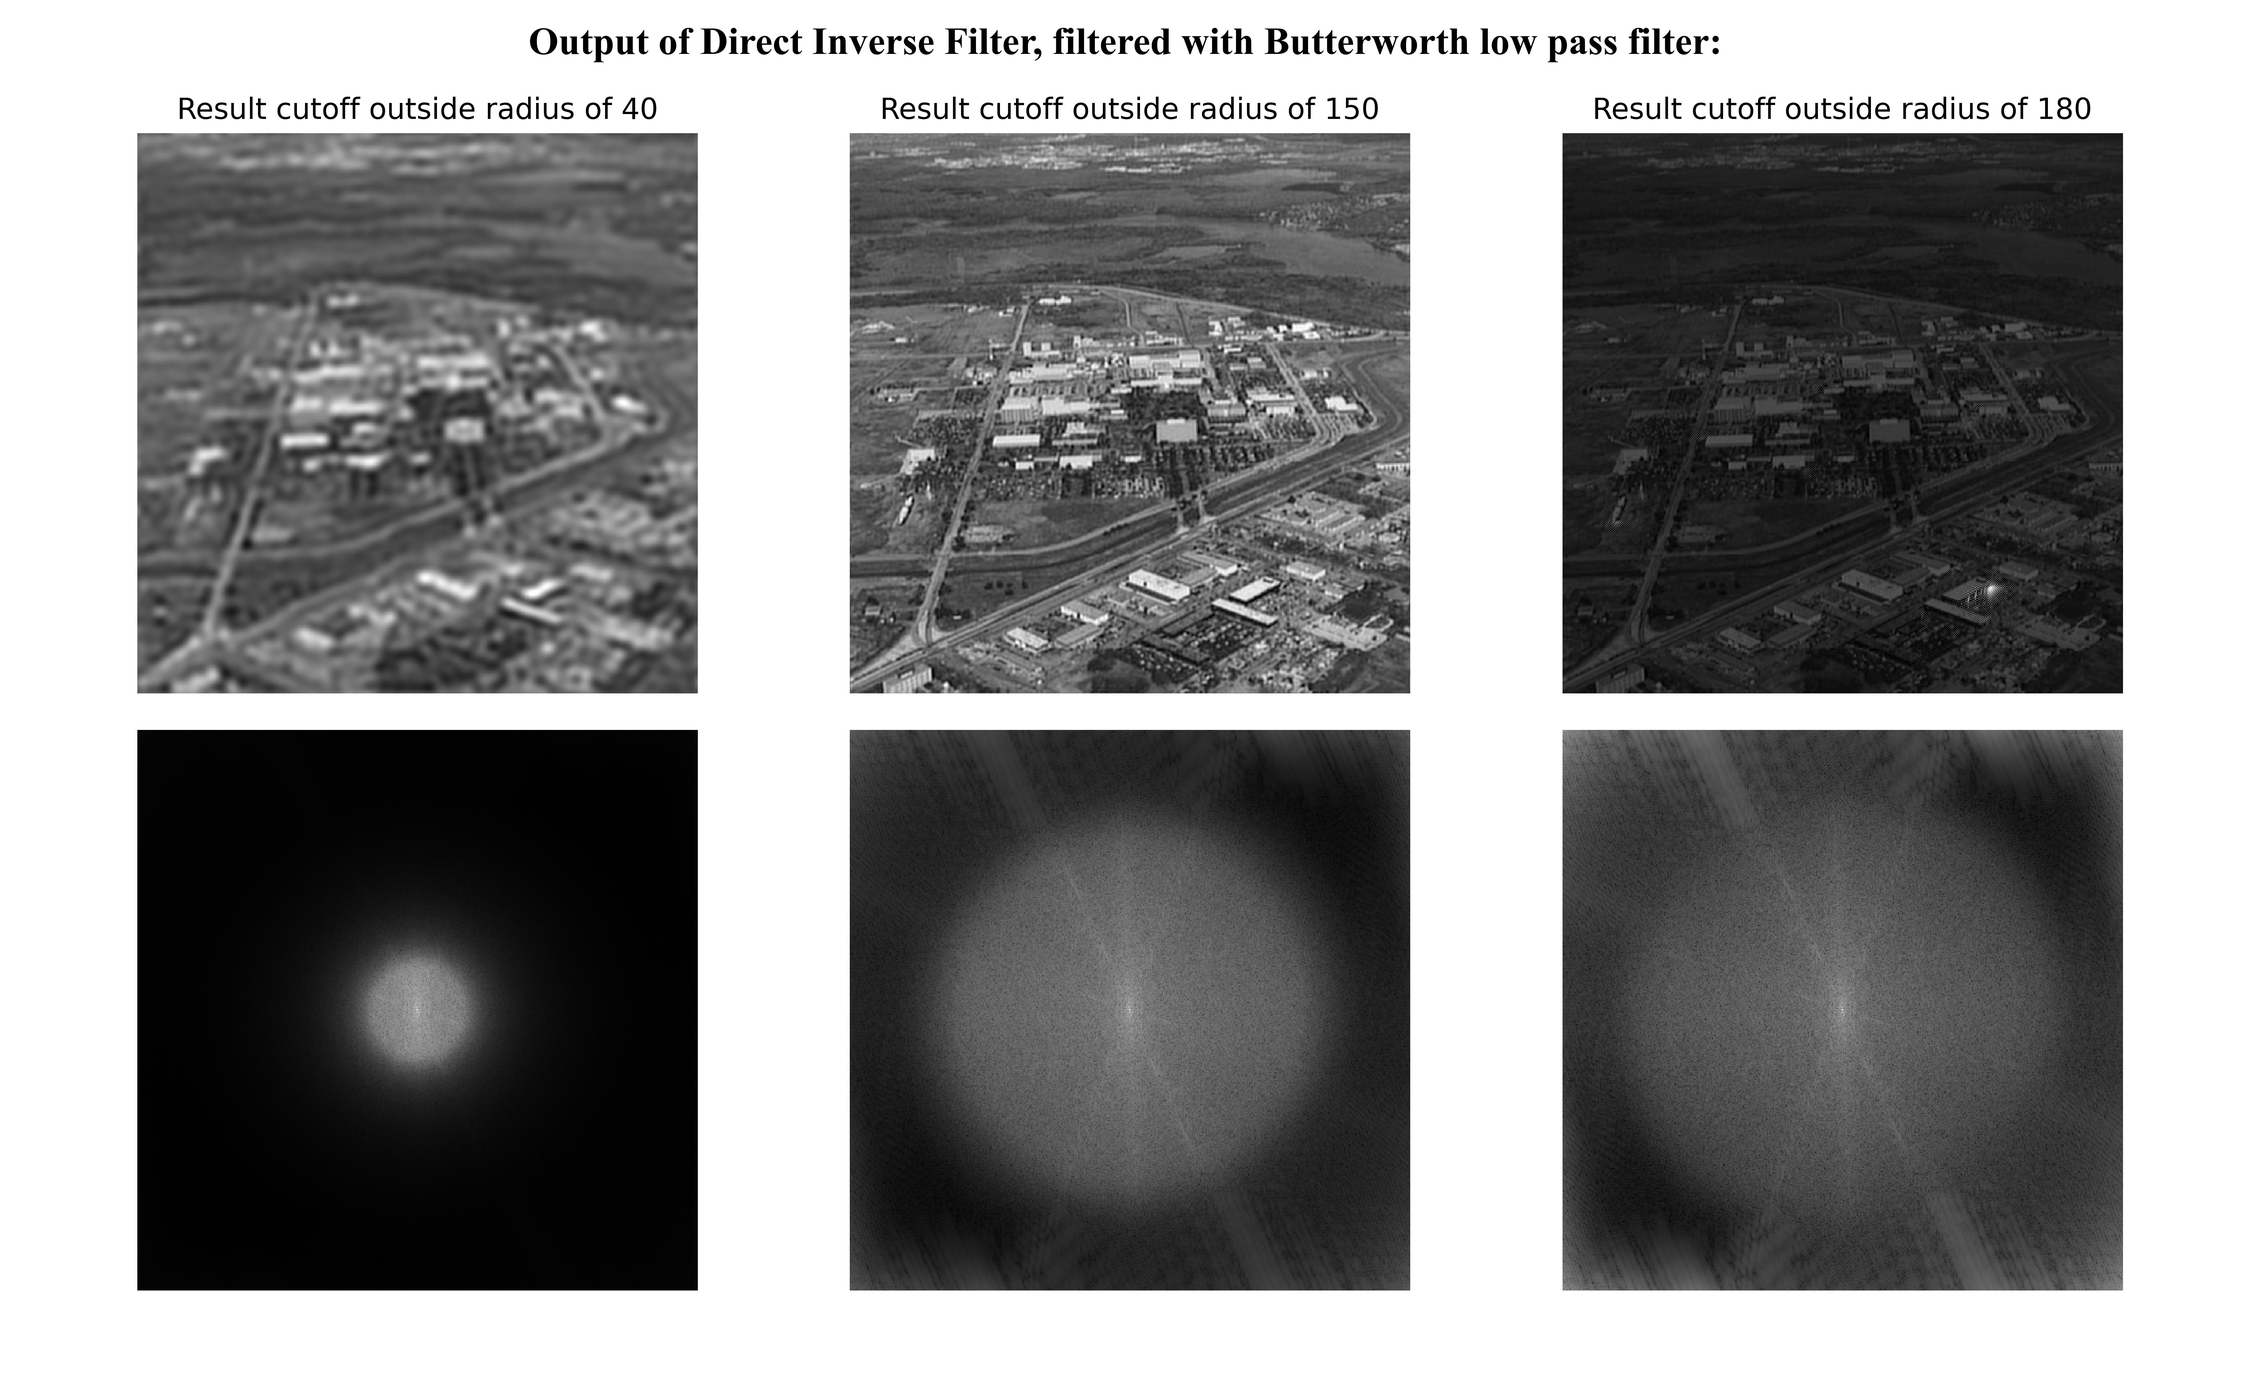
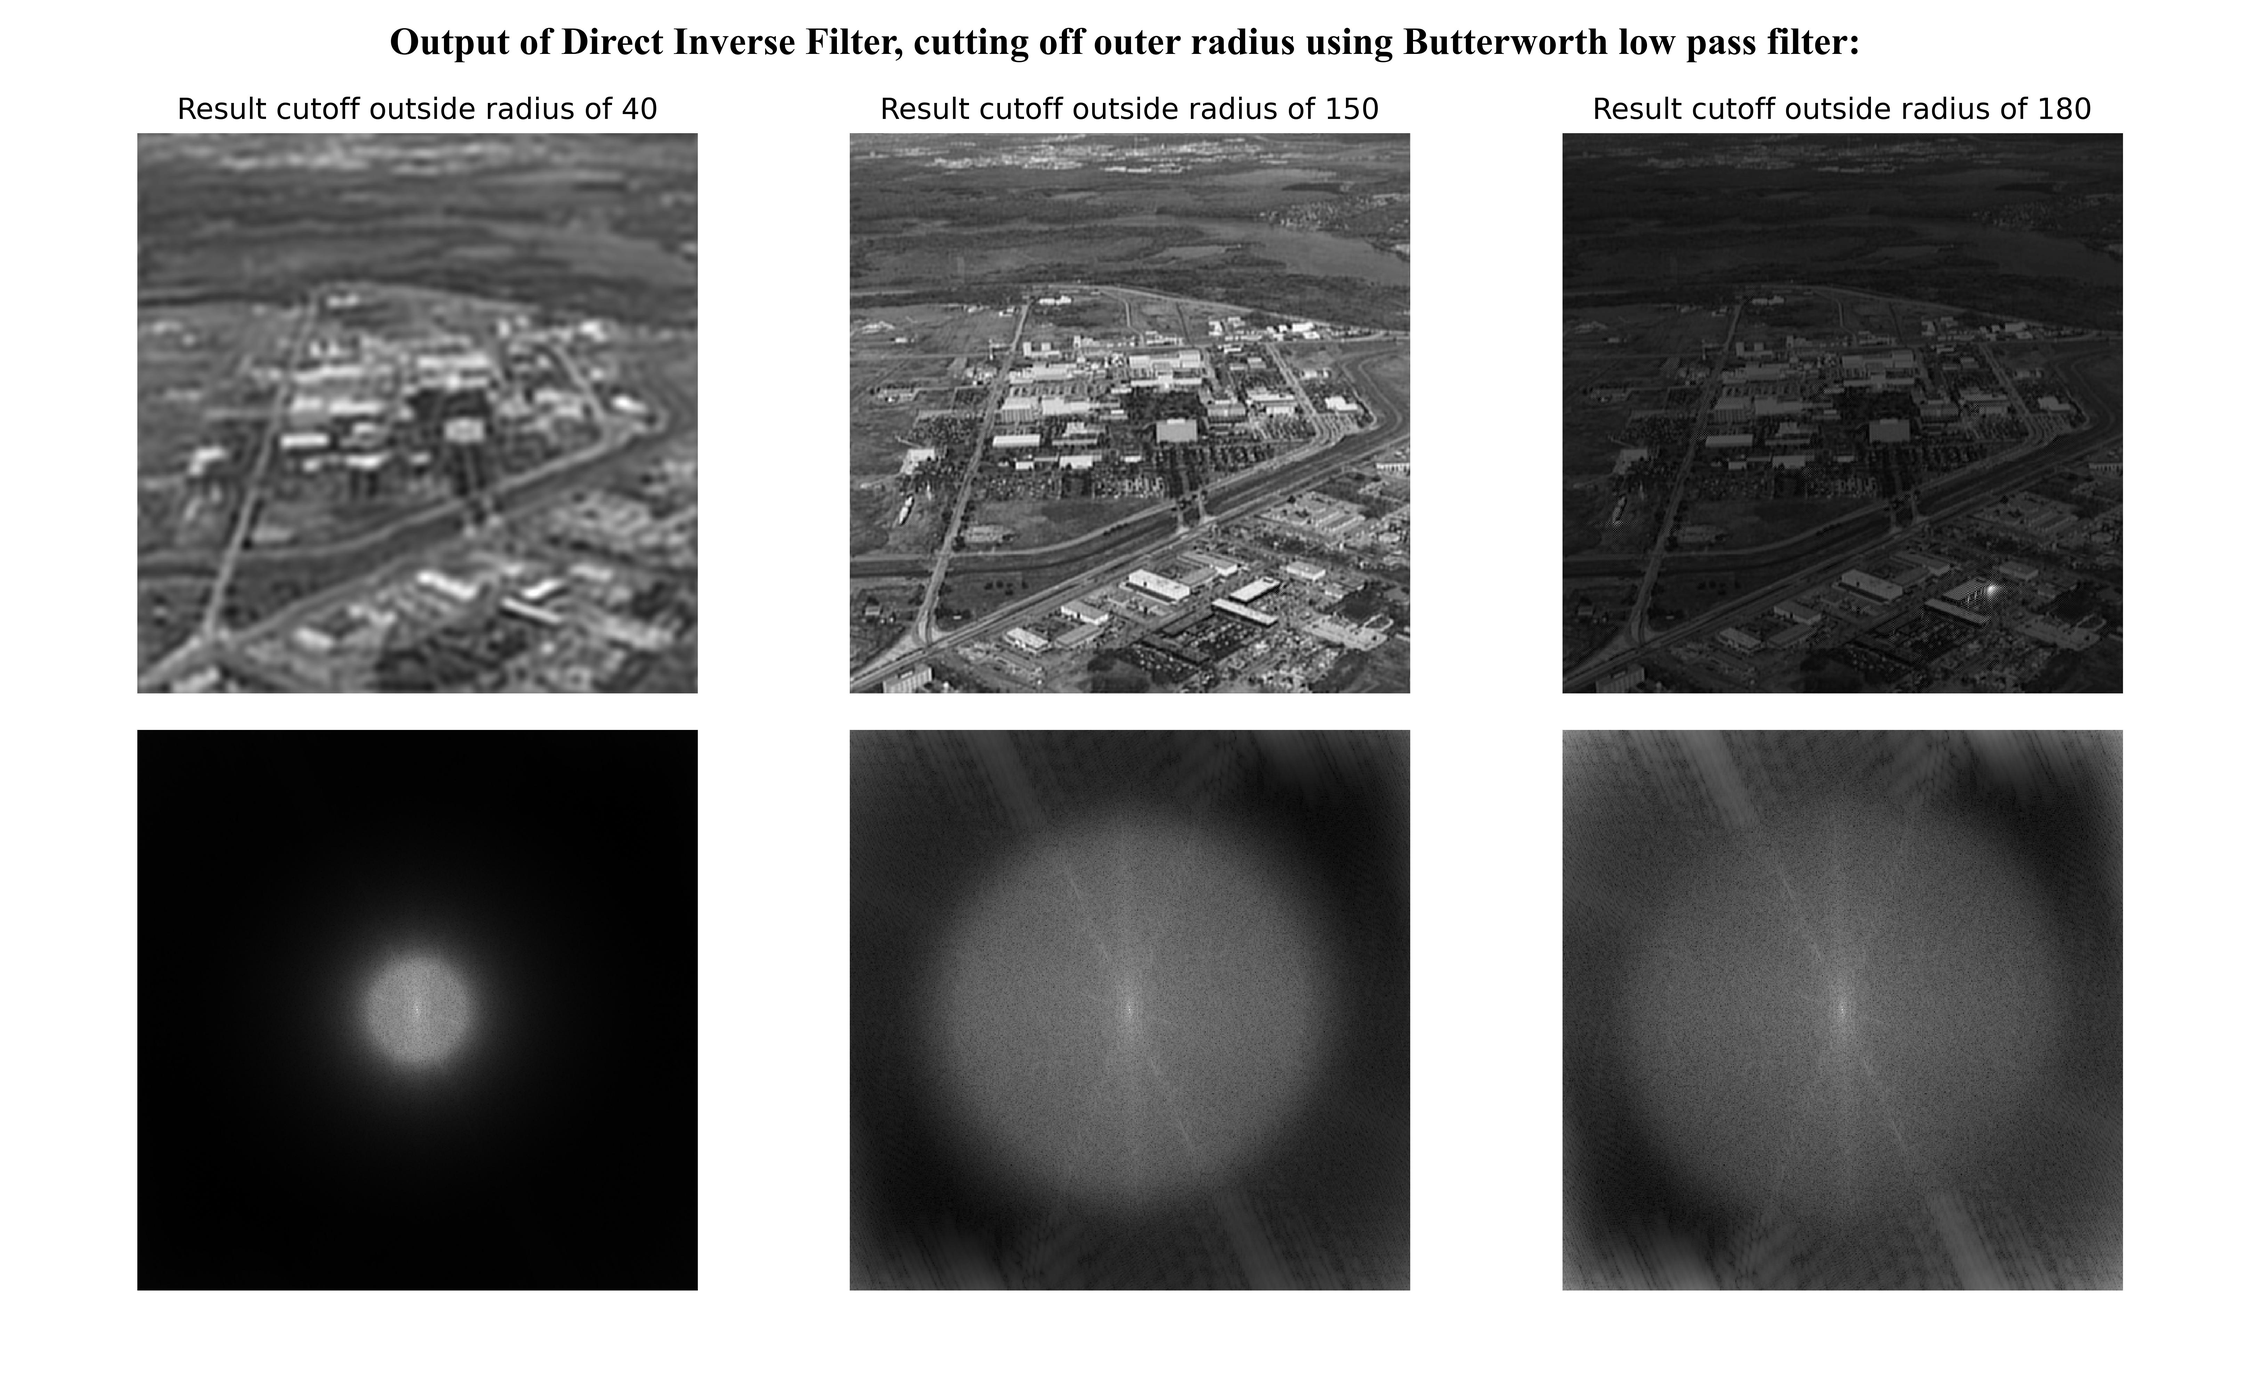
Added weiner filter in Filters class, and improved expt C10, and README.md

Changed region(s): [[0.1874, 0.0, 0.812, 0.0625]]

diff --git a/C_expt10.py b/C_expt10.py
@@ -1,13 +1,19 @@
 '''
 C_expt No. 10: 
 
-Title: Direct Inverse Filtering
+Title: Direct Inverse and Weiner Filtering   
 
 Aim: To write a program using Python to perform direct inverse filtering on an image corrupted by Atmospheric Turbulence Degradation with k=0.0025 (severe turbulence), and passing it through butterworth filter of order 10 and radii:
 i)   40
 ii)  150
 iii) 180
-to enhance recovery.
+to enhance recovery. And compare results with Weiner filtering on the same corrupted image.
+with different values of K:
+{K=Power Spectrum of Noise / Power Spectrum of Undegraded Image}
+i)   1
+ii)  0.5
+iii) 10^-4
+iv)  10^-9
 '''
 
 # important imports:
@@ -25,28 +31,49 @@ flt=Filters()
 img1=plt.imread('CH05\Fig0525(a)(aerial_view_no_turb).tif')
 img1_f=fd.dftshift2(fd.dft2(img1))
 
-
-# atmospheric turbulence degradation:
+# Degrading the original image:
+### atmospheric turbulence degradation:
 H_st=dm.atm_tur(img1.shape,0.0025)    # Severe Turbulence
 
-# degraded images in frequency domain:
+### degraded image in frequency domain:
 img_f_H_st=img1_f*H_st
 
-# degraded images in spatial domain:
+### degraded image in spatial domain:
 img_s_H_st=fd.idft2(fd.dftshift2(img_f_H_st))
 
-# Inverse filtering and bounding the output using butterworth filter of order 10, and different radii in frequency domain: 
-img_f_invf=fd.dftshift2(fd.dft2(img_s_H_st))/H_st
+
+# Recovery from degraded image:
+### degraded image in frequency domain:
+img_f_deg=fd.dftshift2(fd.dft2(img_s_H_st))
+
+### Inverse filtering and bounding the output using butterworth filter of order 10, and different radii in frequency domain: 
+img_f_invf=img_f_deg/H_st
 ord=10
 img_f_invf_b_40=(img_f_invf)*flt.bw_lp_flt(img_f_invf.shape,40,ord)
 img_f_invf_b_150=(img_f_invf)*flt.bw_lp_flt(img_f_invf.shape,150,ord)
 img_f_invf_b_180=(img_f_invf)*flt.bw_lp_flt(img_f_invf.shape,180,ord)
 
-# Inverse filtering and bounding the output using butterworth filter of order 10, and different radii in spatial domain: 
+### Inverse filtering and bounding the output using butterworth filter of order 10, and different radii in spatial domain: 
 img_s_invf=fd.idft2(fd.dftshift2(img_f_invf))
 img_s_invf_b_40=fd.idft2(fd.dftshift2(img_f_invf_b_40))
 img_s_invf_b_150=fd.idft2(fd.dftshift2(img_f_invf_b_150))
 img_s_invf_b_180=fd.idft2(fd.dftshift2(img_f_invf_b_180))
+
+### Weiner filtering in frequency domain:
+K1=1
+K2=0.5
+K3=1e-4
+K4=1e-9
+img_f_wf1=img_f_deg*flt.weiner_flt(H_st,K1)
+img_f_wf2=img_f_deg*flt.weiner_flt(H_st,K2)
+img_f_wf3=img_f_deg*flt.weiner_flt(H_st,K3)
+img_f_wf4=img_f_deg*flt.weiner_flt(H_st,K4)
+
+### Weiner filtering in spatial domain:
+img_s_wf1=fd.idft2(fd.dftshift2(img_f_wf1))
+img_s_wf2=fd.idft2(fd.dftshift2(img_f_wf2))
+img_s_wf3=fd.idft2(fd.dftshift2(img_f_wf3))
+img_s_wf4=fd.idft2(fd.dftshift2(img_f_wf4))
 
 
 # plots
@@ -85,7 +112,7 @@ fig1.set_size_inches(13,8)
 fig1.suptitle('Direct Inverse Filtering',font='Times New Roman',fontweight="bold",fontsize=16)
 fig1.savefig('input_output/C_expt10_1.jpg',dpi=500)
 
-# plots
+# # # # # #
 fig2=plt.figure(2)
 gs2=gs.GridSpec(2,3)
 
@@ -119,7 +146,79 @@ ax26.imshow(it.gamma(0.1,255)(np.abs(img_f_invf_b_180)),cmap='gray')
 
 fig2.tight_layout(pad=2.5)
 fig2.set_size_inches(13,8)
-fig2.suptitle('Output of Direct Inverse Filter, filtered with Butterworth low pass filter: ',font='Times New Roman',fontweight="bold",fontsize=16)
+fig2.suptitle('Output of Direct Inverse Filter, cutting off outer radius using Butterworth low pass filter: ',font='Times New Roman',fontweight="bold",fontsize=16)
 fig2.savefig('input_output/C_expt10_2.jpg',dpi=500)
+
+# # # # # 
+fig3=plt.figure(3)
+gs3=gs.GridSpec(2,3)
+
+ax31=plt.subplot(gs3[0,0])
+ax31.set_title('Original image')
+ax31.axis('off')
+ax31.imshow(img1,cmap='gray',vmax=255,vmin=0)
+
+ax32=plt.subplot(gs3[0,1])
+ax32.set_title(f'k=0.0025 (Severe Turbulence)')
+ax32.axis('off')
+ax32.imshow(img_s_H_st,cmap='gray',vmax=255,vmin=0)
+
+ax33=plt.subplot(gs3[0,2])
+ax33.set_title(f'Result of Weiner Filtering (K={K1})')
+ax33.axis('off')
+ax33.imshow(flt.isc(img_s_wf1,255),cmap='gray',vmax=255,vmin=0)
+
+ax34=plt.subplot(gs3[1,0])
+ax34.axis('off')
+ax34.imshow(it.gamma(0.1,255)(np.abs(img1_f)),cmap='gray')
+
+ax35=plt.subplot(gs3[1,1])
+ax35.axis('off')
+ax35.imshow(it.gamma(0.1,255)(np.abs(img_f_H_st)),cmap='gray')
+
+ax36=plt.subplot(gs3[1,2])
+ax36.axis('off')
+ax36.imshow(it.gamma(0.1,255)(np.abs(img_f_wf1)),cmap='gray')
+
+fig3.tight_layout(pad=2.5)
+fig3.set_size_inches(13,8)
+fig3.suptitle('Weiner Filtering for different values of K',font='Times New Roman',fontweight="bold",fontsize=16)
+fig3.savefig('input_output/C_expt10_3.jpg',dpi=500)
+
+# # # # # 
+fig4=plt.figure(4)
+gs4=gs.GridSpec(2,3)
+
+ax41=plt.subplot(gs4[0,0])
+ax41.set_title(f'Result of Weiner Filtering (K={K2})')
+ax41.axis('off')
+ax41.imshow(flt.isc(img_s_wf2,255),cmap='gray',vmax=255,vmin=0)
+
+ax42=plt.subplot(gs4[0,1])
+ax42.set_title(f'Result of Weiner Filtering (K={K3})')
+ax42.axis('off')
+ax42.imshow(flt.isc(img_s_wf3,255),cmap='gray',vmax=255,vmin=0)
+
+ax43=plt.subplot(gs4[0,2])
+ax43.set_title(f'Result of Weiner Filtering (K={K4})')
+ax43.axis('off')
+ax43.imshow(flt.isc(img_s_wf4,255),cmap='gray',vmax=255,vmin=0)
+
+ax44=plt.subplot(gs4[1,0])
+ax44.axis('off')
+ax44.imshow(it.gamma(0.1,255)(np.abs(img_f_wf2)),cmap='gray')
+
+ax45=plt.subplot(gs4[1,1])
+ax45.axis('off')
+ax45.imshow(it.gamma(0.1,255)(np.abs(img_f_wf3)),cmap='gray')
+
+ax46=plt.subplot(gs4[1,2])
+ax46.axis('off')
+ax46.imshow(it.gamma(0.1,255)(np.abs(img_f_wf4)),cmap='gray')
+
+fig4.tight_layout(pad=2.5)
+fig4.set_size_inches(13,8)
+fig4.suptitle('Weiner Filtering for different values of K',font='Times New Roman',fontweight="bold",fontsize=16)
+fig4.savefig('input_output/C_expt10_4.jpg',dpi=500)
 
 plt.show()

diff --git a/important_classes/filters.py b/important_classes/filters.py
@@ -21,11 +21,33 @@ Filters:
 
 
     * Attributes:
-        ** Filter Masks:
-            *** Smoothening Filter Masks:
+        ** Filter Masks
+            *** Smoothening Filter Masks
                 # am_mask           : arithmetic filter mask
                 # gaussian_mask     : gaussian filter mask
 
+            *** Sharpening Filter Masks
+                *** Laplacian Masks
+                    # lap_mask90_le     : 90 degrees Laplacian mask (light edges)
+                    # lap_mask90_de     : 90 degrees Laplacian mask (dark edges)
+                    # lap_mask45_le     : 45 degrees Laplacian mask (light edges)
+                    # lap_mask45_de     : 45 degrees Laplacian mask (dark edges)
+                *** Line Detection Masks
+                    # line_mask_x         : Horizontal line detection mask 
+                    # line_mask_y         : Vertical line detection mask
+                    # line_mask_pxy       : 45 degrees diagonal line detection mask
+                    # line_mask_nxy       : -45 degrees diagonal line detection mask
+                *** Prewitt Masks
+                    # prew_mask_x        : Horizontal Prewitt mask  
+                    # prew_mask_y        : Vertical Prewitt mask 
+                    # prew_mask_pxy      : 45 degrees diagonal Prewitt mask 
+                    # prew_mask_nxy      : -45 degrees diagonal Prewitt mask 
+                *** Sobel Masks 
+                    sobel_mask_x         : Horizontal Sobel mask
+                    sobel_mask_y         : Vertical Sobel mask
+                    sobel_mask_pxy       : 45 degrees diagonal Sobel mask
+                    sobel_mask_nxy       : -45 degrees diagonal Sobel mask
+            
             *** Smoothening Filters
                 # am_flt            : arithmetic mean filter
                 # gm_flt            : geometric mean filter
@@ -38,8 +60,8 @@ Filters:
                     # min_flt       : min filter
                     # midpt_flt     : midpoint filter
                     # alptrm_flt    : alpha-trimmed mean filter
-                    
 
+            *** Minimum Mean Square Error (Weiner) Filtering 
 
     * Methods:
         ** Pre-Post Processing
@@ -53,11 +75,15 @@ Filters:
         ** Adaptive Filters
             # adpt_median_flt           : adaptive median filter
             # adpt_lclnr_flt            : adaptive local noise reduction filter 
-        
-        ** Frequency Domain Filters
-            # glp_flt                   :Gaussian Low pass filter
-            # ghp_flt                   :Gaussian High pass filter
 
+        ** Frequency Domain Filters
+            *** Laplacian Masks
+            # idl_lp_flt                : ideal low pass filter
+            # idl_hp_flt                : ideal high pass filter
+            # bw_lp_flt                 : butterworth low pass filter
+            # glp_flt                   : gaussian low pass filter
+            # ghp_flt                   : gaussian high pass filter
+            
 
 
 '''
@@ -75,24 +101,25 @@ class Filters():
     # # # # # # # # # # # # # # # # # # # # # # # # #
         '''Filter masks: Sharpening'''
 
-        # Laplacian Filters:
+        # Laplacian Masks:
         self.lap_mask90_le=np.array([[0,1,0],[1,-4,1],[0,1,0]])
         self.lap_mask90_de=np.array([[0,-1,0],[-1,4,-1],[0,-1,0]])
         self.lap_mask45_le=np.array([[1,1,1],[1,-8,1],[1,1,1]])
         self.lap_mask45_de=np.array([[-1,-1,-1],[-1,8,-1],[-1,-1,-1]])
 
+        # Line Detection Masks:
         self.line_mask_x=np.array([[-1,-1,-1],[2,2,2],[-1,-1,-1]])
         self.line_mask_y=np.array([[-1,2,-1],[-1,2,-1],[-1,2,-1]])
         self.line_mask_pxy=np.array([[2,-1,-1],[-1,2,-1],[-1,-1,2]])
         self.line_mask_nxy=np.array([[-1,-1,2],[-1,2,-1],[2,-1,-1]])
 
-        # Prewitt Filters:
+        # Prewitt Masks:
         self.prew_mask_x=np.array([[-1,-1,-1],[0,0,0],[1,1,1]])
         self.prew_mask_y=np.array([[-1,0,1],[-1,0,1],[-1,0,1]])
         self.prew_mask_pxy=np.array([[0,1,1],[-1,0,1],[-1,-1,0]])
         self.prew_mask_nxy=np.array([[-1,-1,0],[-1,0,1],[0,1,1]])
 
-        # Sobel Filters:
+        # Sobel Masks:
         self.sobel_mask_x=np.array([[-1,-2,-1],[0,0,0],[1,2,1]])
         self.sobel_mask_y=np.array([[-1,0,1],[-2,0,2],[-1,0,1]])
         self.sobel_mask_pxy=np.array([[0,1,2],[-1,0,1],[-2,-1,0]])
@@ -109,8 +136,6 @@ class Filters():
 
         self.chm_flt=lambda q:lambda nh: 0 if(0 in nh and q<0) else 0 if np.abs(np.sum(np.power(nh,q,dtype=complex)))==0 else np.abs(np.sum(np.power(nh,q+1,dtype=complex)))/np.abs(np.sum(np.power(nh,q,dtype=complex)))
         
-
-
         ''' **** Order Statistic Filters'''
         self.median_flt=lambda nh: np.median(nh)
         self.max_flt =lambda nh: np.max(nh)
@@ -119,6 +144,12 @@ class Filters():
         self.alptrm_flt=lambda d:lambda nh:np.average(np.sort(np.ravel(nh))[int(d/2):(np.sort(np.ravel(nh)).size-int(d/2))])
 
     # # # # # # # # # # # # # # # # # # # # # # # # #
+    
+        '''Minimum Mean Square Error (Weiner) Filtering'''
+        self.weiner_flt=lambda H,k: (1/H)*((np.abs(H)**2)/((np.abs(H)**2)+k))
+
+    # # # # # # # # # # # # # # # # # # # # # # # # #
+
 
     ''' ** Preprocessing and Post Processing functions'''
     def pad_img(self, img, layers, pad_with=0):
@@ -285,6 +316,8 @@ class Filters():
                 flt_img[i][j] = (img_pd[i,j]-nrf*(img_pd[i][j]-mean_noise))
         return self.unpad_img(flt_img, img.shape[0:2], d_h)
 
+
+    # # # # # # # # # # # # # # # # # # # # # # # # #
 
     ''' Frequency Domain Filters'''
 

diff --git a/README.md b/README.md
@@ -1,6 +1,6 @@
 # **Digital Image Processing** 
 
-<img src="featured_img\featured_img_1.png"><img src="featured_img\featured_img_2.png"> 
+<img src="featured_img\featured_img_1.png"><img src="featured_img\featured_img_2.png">
 
 ## Acknowledgements
 
@@ -11,15 +11,17 @@
 - **_God_**, all the things I will and have learnt initiate and terminate from whom, who supports me in all my endeavours.
 - **_Rafael C. Gonzalez | Richard E.Wood_**, for the most amazing textbook on Digital Imaging Processing, that I have refered to, most of the programs written are based on concepts learnt from the book (3rd Edition). It is the standard reference for the Digital Image Processing course offered in my college. 
 - **_Prof. Purti Savardekar, Goa Engineering College_**, my teacher in the course of Digital Image Processing. For her initiative to write programs for the concepts taught in the class. Motivating me to visualize them to achieve better understanding. 
-- **_All my peers_**, in the course of Digital Image Processing for their active support.
+- **_My parents, and well-wishers_**, for their active support
 
 ## Disclaimer
 
 ---
 The repository is created to share the concepts that I have been fortunate to learn in the Digital Image Processing course. I hope it  helps DIP enthusiasts in their journey. All programs have been written in python. The experiments are implementations of concepts. Most of the concepts have been tried to be implemented from scratch to understand the underlying nitti-grittis and have been combined into classes for better code organization and access. Rest of them have been inherited from existing image processing libraries in python to avoid reinventing the wheel unnecessarily. Images used in the experiments are taken from reference:https://www.imageprocessingplace.com/DIP-3E/dip3e_book_images_downloads.htm
 and are used only for study purposes.
-They are arranged  chapterwise in their respective folders.  All extra images used have been stored in the folder: **extra_images**, the input given and output generated are stored in folder: **input_output**, the concept related functions that have been created from scratch have been saved into their respective classes into folder: **important_classes**, and for easy access in programs have been imported into common file **dip_toolbox.py**. 
-Everytime the repository being updated can be tracked using the featured image which depicts the **input_output** folder
+Everytime the repository being updated can be tracked using the featured image which depicts the **input_output** folder.
+
+## Making the Best possible use of the repository:
+Download the repository as a zip file, and extract it in a folder on your local system. All the experiments exist as separate python files, the images used are in separate folders **{CH01,CH02,CH03..., extra_images}**, the classes created for special functionalities are stored in separate folder **important_classes**  which are combined for easy access using the python file **diptoolbox**. You will be able to run the experiments directly using their corresponding python files, the final output will be saved in the **input_output** folder. You are encouraged to tweak the values and observe the change, and if you find something new or something strange please do share it at: mailtovigyannveshi@gmail.com
 
 ## Experiments Done:
 ---
@@ -69,4 +71,4 @@ Everytime the repository being updated can be tracked using the featured image w
 | 7. | Handling Additive Gaussian noise with high variance using Adaptive Local Noise Reduction Filter |
 | 8. | Visualizing the Atmospheric Turbulence Degradation function on an image in the spatial as well as the frequency domain |
 | 9. | Visualizing the Motion Blur Degradation in an image in the spatial as well as the frequency domain|
-| 10.| Direct Inverse Filtering |
+| 10.| Direct Inverse and Weiner Filtering |
